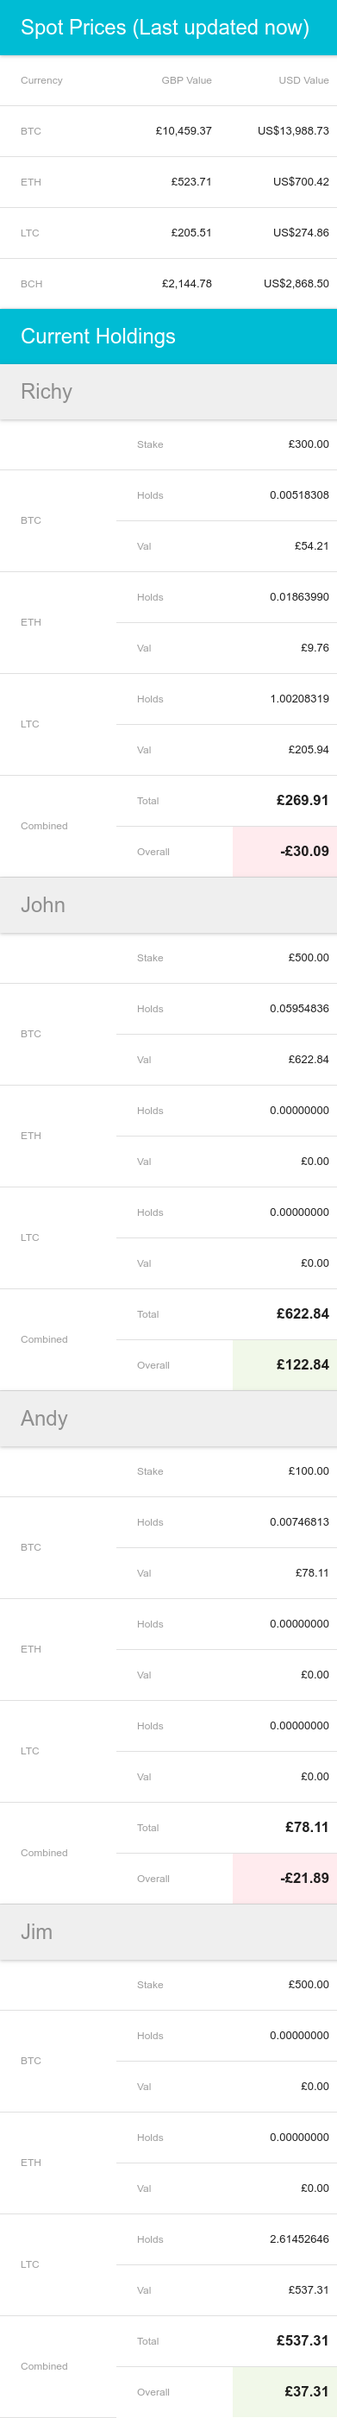
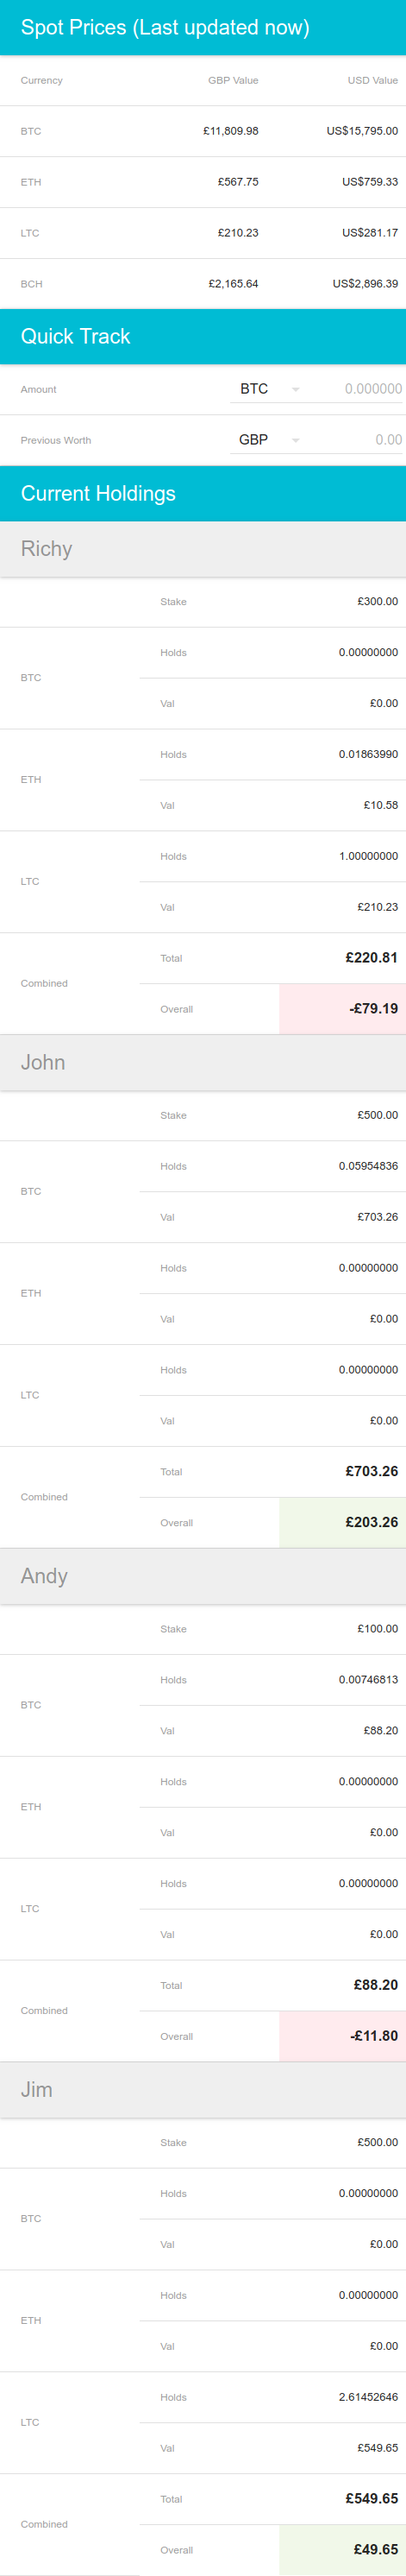
Added quick track

diff --git a/src/components/QuickTrackTable.js b/src/components/QuickTrackTable.js
@@ -1,0 +1,124 @@
+import React, { Component } from 'react';
+import PropTypes from 'prop-types';
+
+import { Table, TableBody, TableRow } from 'material-ui/Table';
+import { TableHeaderColumn, TableRowColumn, OverallColumn, CurrencyColumn } from './TableColumns';
+import TextField from 'material-ui/TextField';
+import SelectField from 'material-ui/SelectField';
+import MenuItem from 'material-ui/MenuItem';
+
+const realCurrencies = ['GBP', 'USD'];
+const cryptoCurrencies = ['BTC', 'ETH', 'LTC', 'BCH'];
+
+class QuickTrackTable extends Component {
+
+  static propTypes = {
+    BTC: PropTypes.shape({
+      GBP: PropTypes.string,
+      USD: PropTypes.string,
+    }),
+    ETH: PropTypes.shape({
+      GBP: PropTypes.string,
+      USD: PropTypes.string,
+    }),
+    LTC: PropTypes.shape({
+      GBP: PropTypes.string,
+      USD: PropTypes.string,
+    }),
+    BCH: PropTypes.shape({
+      GBP: PropTypes.string,
+      USD: PropTypes.string,
+    }),
+  };
+
+  state = {
+    cryptoAmount: '',
+    cryptoCurrency: 'BTC',
+    realAmount: '',
+    realCurrency: 'GBP',
+  };
+
+  handleRealAmountChange = (event, value) => this.setState({ realAmount: value});
+  handleRealCurrencyChange = (event, index, value) => this.setState({ realCurrency: value});
+  handleCryptoAmountChange = (event, value) => this.setState({ cryptoAmount: value});
+  handleCryptoCurrencyChange = (event, index, value) => this.setState({ cryptoCurrency: value});
+
+  render() {
+
+    const { cryptoCurrency, realCurrency } = this.state;
+    const currentSpotPrice = this.props[cryptoCurrency][realCurrency];
+    const cryptoAmount = parseFloat(this.state.cryptoAmount || 0);
+    const previousWorth = parseFloat(this.state.realAmount || 0);
+    const currentSpotPriceHolding = currentSpotPrice * cryptoAmount;
+    const currentDifference = currentSpotPriceHolding - previousWorth;
+
+    return (
+      <Table>
+        <TableBody
+          showRowHover={false}
+          stripedRows={false}
+          displayRowCheckbox={false}
+        >
+          <TableRow>
+            <TableHeaderColumn>Amount</TableHeaderColumn>
+            <TableRowColumn align="right">
+              <SelectField
+                style={{ width: '100px', verticalAlign: 'bottom' }}
+                value={cryptoCurrency}
+                onChange={this.handleCryptoCurrencyChange}
+              >
+                {cryptoCurrencies.map((c) => (
+                  <MenuItem key={c} value={c} primaryText={c}/>
+                ))}
+              </SelectField>
+              <TextField
+                hintText="0.000000"
+                hintStyle={{ right: 0 }}
+                style={{ width: '100px' }}
+                inputStyle={{ textAlign: 'right' }}
+                onChange={this.handleCryptoAmountChange}
+                value={this.state.cryptoAmount}
+              />
+            </TableRowColumn>
+          </TableRow>
+          <TableRow>
+            <TableHeaderColumn>Previous Worth</TableHeaderColumn>
+            <TableRowColumn align="right">
+              <SelectField
+                style={{ width: '100px', verticalAlign: 'bottom' }}
+                value={this.state.realCurrency}
+                onChange={this.handleRealCurrencyChange}
+              >
+                {realCurrencies.map((c) => (
+                  <MenuItem key={c} value={c} primaryText={c}/>
+                ))}
+              </SelectField>
+              <TextField
+                hintText="0.00"
+                hintStyle={{ right: 0 }}
+                style={{ width: '100px' }}
+                inputStyle={{ textAlign: 'right' }}
+                onChange={this.handleRealAmountChange}
+                value={this.state.realAmount}
+              />
+            </TableRowColumn>
+          </TableRow>
+          {currentSpotPriceHolding &&
+            <TableRow>
+              <TableHeaderColumn>Current Worth</TableHeaderColumn>
+              <CurrencyColumn value={currentSpotPriceHolding} currency={realCurrency} />
+            </TableRow>
+          }
+          {previousWorth &&
+            <TableRow>
+              <TableHeaderColumn>Difference</TableHeaderColumn>
+              <OverallColumn value={currentDifference} currency={realCurrency}/>
+            </TableRow>
+          }
+        </TableBody>
+      </Table>
+    );
+  }
+}
+
+export default QuickTrackTable;

diff --git a/src/App.js b/src/App.js
@@ -10,6 +10,7 @@ import Snackbar from 'material-ui/Snackbar';
 import CurrentHoldingsTable from './components/CurrentHoldingsTable';
 import CurrentHoldingsTableMobile from './components/CurrentHoldingsTableMobile';
 import SpotPricesTable from './components/SpotPricesTable';
+import QuickTrackTable from './components/QuickTrackTable';
 
 import './App.css';
 
@@ -49,19 +50,27 @@ class App extends Component {
       <MuiThemeProvider>
         <div className="App">
           {spotPrices &&
-            <Paper className="Paper">
-              <AppBar
-                title={
-                  <Fragment>
-                    Spot Prices (Last updated{' '}
-                    <FormattedRelative
-                      value={lastUpdated}
-                      updateInterval={parseInt(process.env.REACT_APP_LAST_UPDATED_INTERVAL, 10)}
-                    />)
-                  </Fragment>}
-                showMenuIconButton={false} />
-              <SpotPricesTable {...spotPrices} />
-            </Paper>
+            <Fragment>
+              <Paper className="Paper">
+                <AppBar
+                  title={
+                    <Fragment>
+                      Spot Prices (Last updated{' '}
+                      <FormattedRelative
+                        value={lastUpdated}
+                        updateInterval={parseInt(process.env.REACT_APP_LAST_UPDATED_INTERVAL, 10)}
+                      />)
+                    </Fragment>}
+                  showMenuIconButton={false} />
+                <SpotPricesTable {...spotPrices} />
+              </Paper>
+              <Paper className="Paper">
+                <AppBar
+                  title="Quick Track"
+                  showMenuIconButton={false} />
+                <QuickTrackTable {...spotPrices} />
+              </Paper>
+            </Fragment>
           }
           {currentHoldings &&
             <Paper className="Paper">

diff --git a/src/components/TableColumns.js b/src/components/TableColumns.js
@@ -31,7 +31,7 @@ export const CryptoCurrencyColumn = ({value, ...props}) => (
   </TableRowColumn>
 );
 
-export const OverallColumn = ({value}) => {
+export const OverallColumn = ({value, currency='GBP'}) => {
 
   const styles = {
     green: {
@@ -44,7 +44,7 @@ export const OverallColumn = ({value}) => {
 
   return (
     <TableRowColumn align="right" bold={true} style={value < 0 ? styles.red : styles.green}>
-      <FormattedNumber value={value} style="currency" currency="GBP"/>
+      <FormattedNumber value={value} style="currency" currency={currency} />
     </TableRowColumn>
   );
 };

diff --git a/README.md b/README.md
@@ -3,7 +3,10 @@
 Front end for displaying crypto currency spot prices and the current holdings
 of supplied persons amounts of each currency.
 
-This project was bootstrapped with [Create React App](https://github.com/facebookincubator/create-react-app).
+**Now with quick track**
+Enter the amount of crypto currency you own and how much it was previously
+worth to you and it will tell you how much it is worth now and
+how much it has gone up or down by.
 
 <img src="./docs/desktop.screenshot.png" width="1024px" />
 
